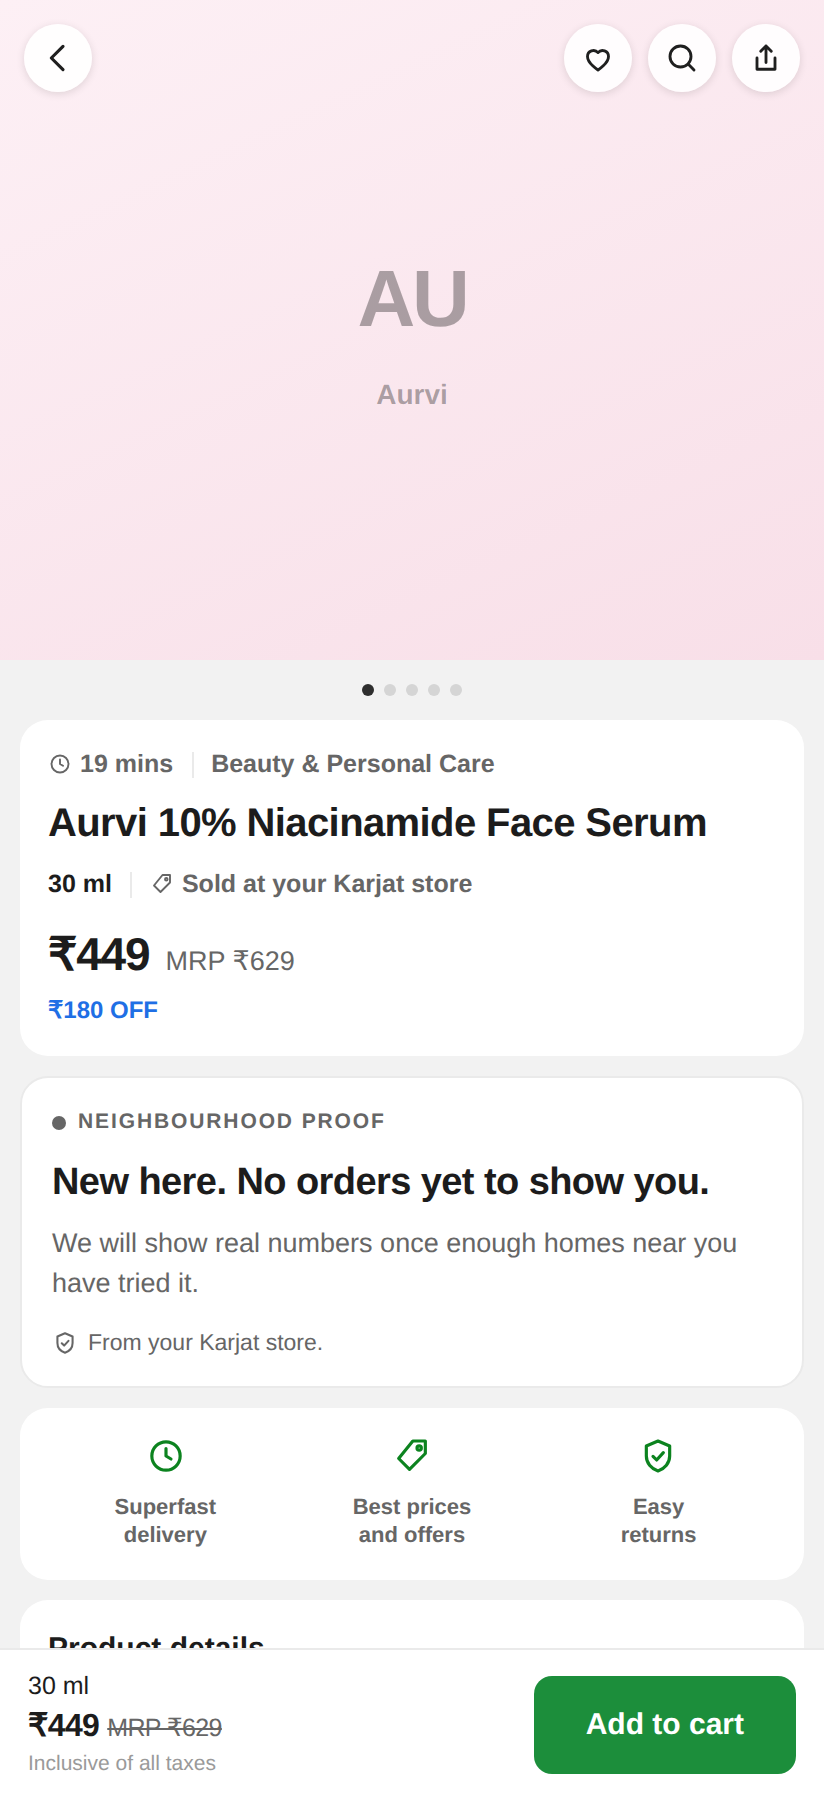
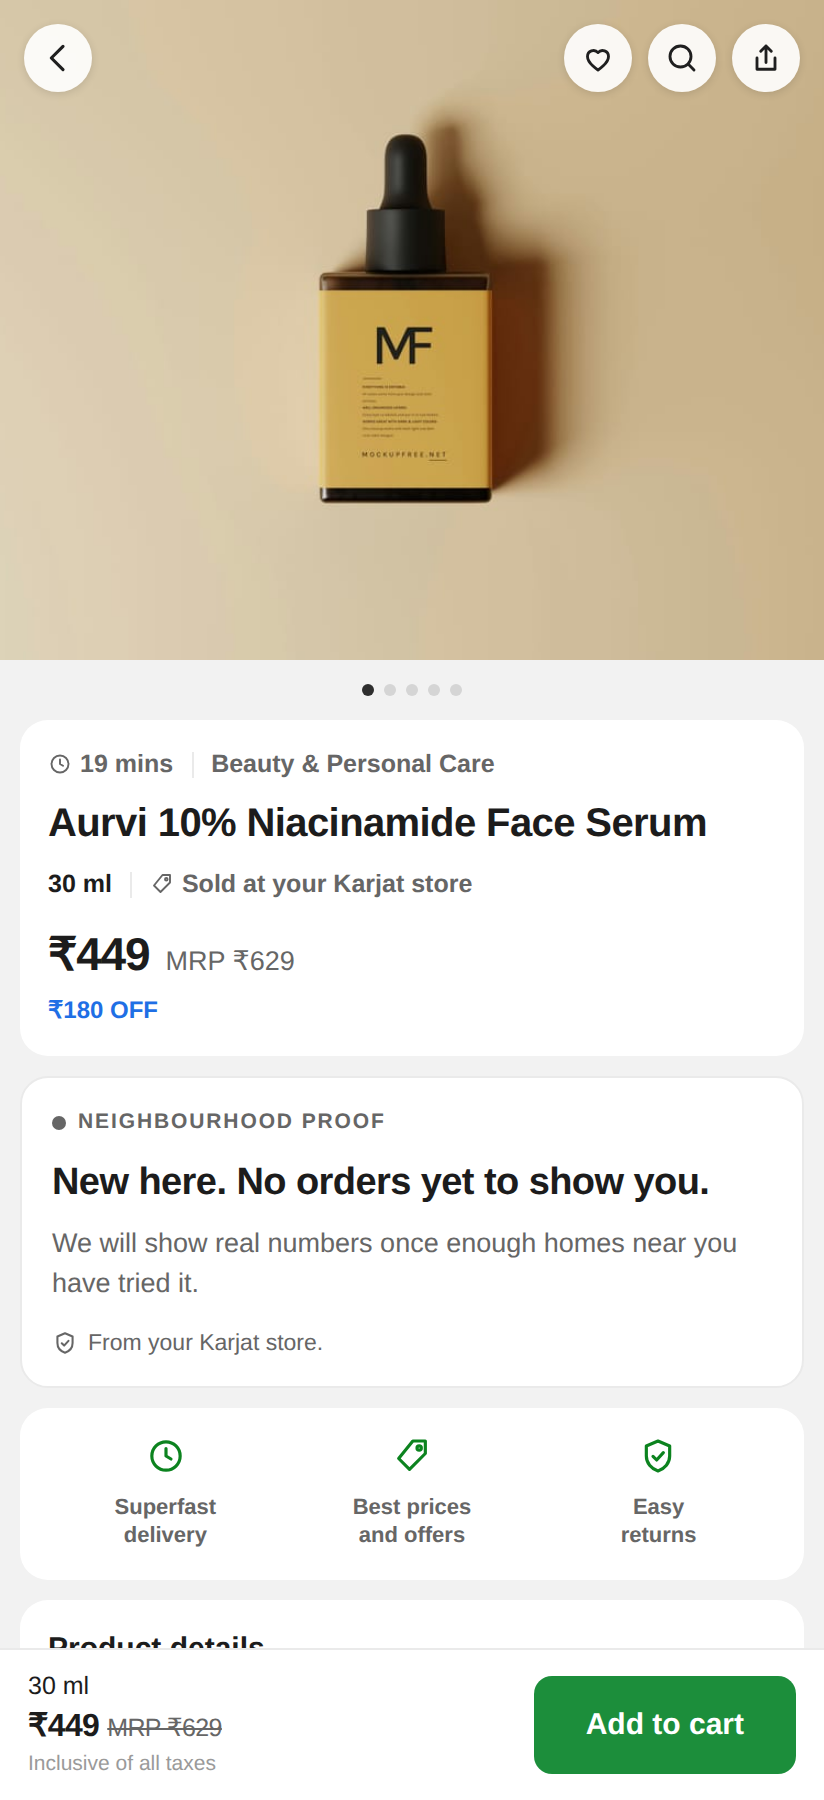
Add the 21 product images
Covers 41 of 150 SKUs, including all three cards that carry demo copy:
the 212/9 normal card, the 11-of-38 leaking card, and the widened
Vadodara card.

Downscaled on the way in. The originals were full-resolution stock, up
to 8192px and 8 MB each, for tiles that render at about 160px - 40 MB
total, which would have gone into git permanently and been downloaded
in full on every browse page load. scripts/optimise-images.mjs caps the
long edge at 900px and re-encodes at quality 80, taking the set to
818 KB, 98 percent smaller, with no visible difference at the sizes
these are displayed. It is idempotent, so it is safe to re-run as more
images are added.

Switched the image fit from contain to cover. Every supplied photo is a
styled scene rather than a cutout on white, so contain left pale bands
above and below each tile; cover fills the frame the way the real app
does.

Claude-Session: https://claude.ai/code/session_01N9vBRTZ8hLAoYEAGgQJA4Y

diff --git a/app/globals.css b/app/globals.css
@@ -363,21 +363,23 @@ button {
   overflow: hidden;
 }
 
+/*
+ * cover, not contain: every supplied photo is a styled scene rather than a
+ * cutout on white, so filling the frame reads like the real app. contain left
+ * pale bands above and below each one.
+ */
 .thumb img,
 .pdp-media img {
   width: 100%;
   height: 100%;
-  object-fit: contain;
+  object-fit: cover;
   display: block;
 }
 
-.thumb[data-photo="true"] {
-  background: #fff;
-}
-
+.thumb[data-photo="true"],
 .pdp-media[data-photo="true"] {
   background: #fff;
-  padding: 14px;
+  padding: 0;
 }
 
 .pcard-fav {
